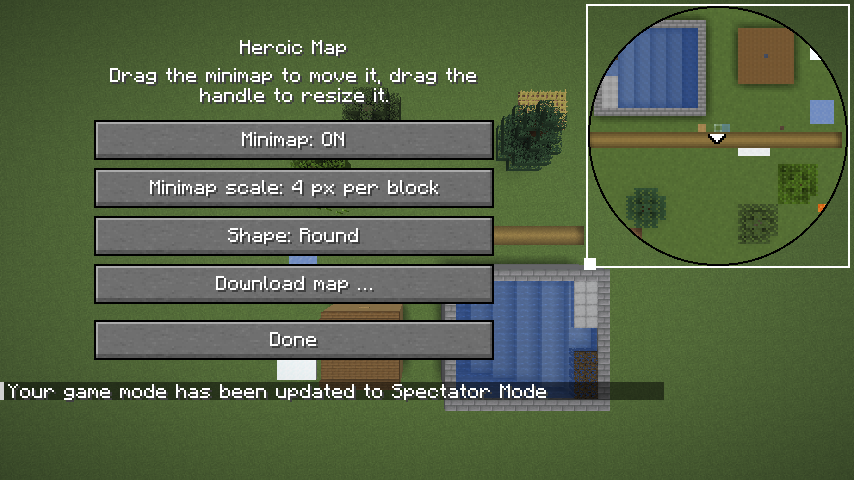
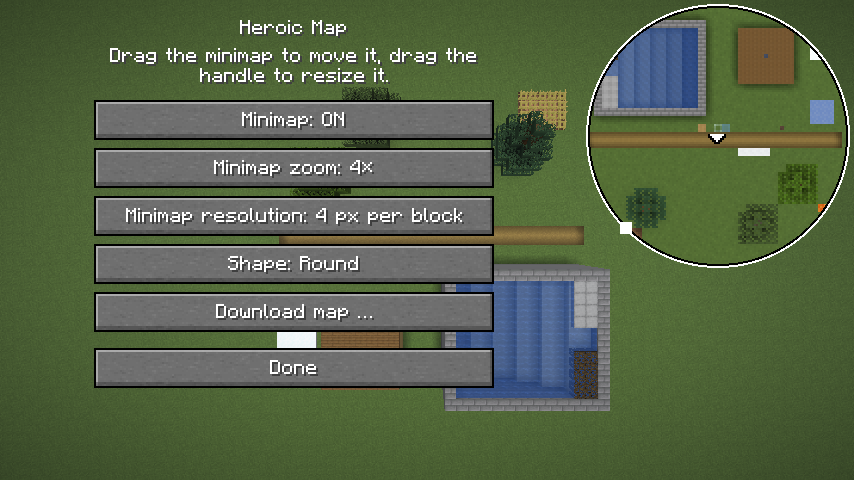
Bild des Menüs mit Zoom, Auflösung und Ring; Chat vor der Aufnahme leer

diff --git a/src/gametest/java/com/nekyia/heroicmap/Bilder.java b/src/gametest/java/com/nekyia/heroicmap/Bilder.java
@@ -103,7 +103,11 @@ public final class Bilder implements FabricClientGameTest {
         context.runOnClient(mc -> Minimap.INSTANZ.setzeRund(true));
         context.waitTicks(2);
         Path rund = context.takeScreenshot(TestScreenshotOptions.of("minimap-rund").disableCounterPrefix());
-        context.runOnClient(mc -> mc.gui.setScreen(new Einstellungen()));
+        context.runOnClient(mc -> {
+            // Die Meldung zum Spielmodus läge sonst über den Knöpfen.
+            mc.gui.hud.getChat().clearMessages(false);
+            mc.gui.setScreen(new Einstellungen());
+        });
         context.waitTicks(5);
         Path menue = context.takeScreenshot(TestScreenshotOptions.of("menue").disableCounterPrefix());
         context.runOnClient(mc -> {
